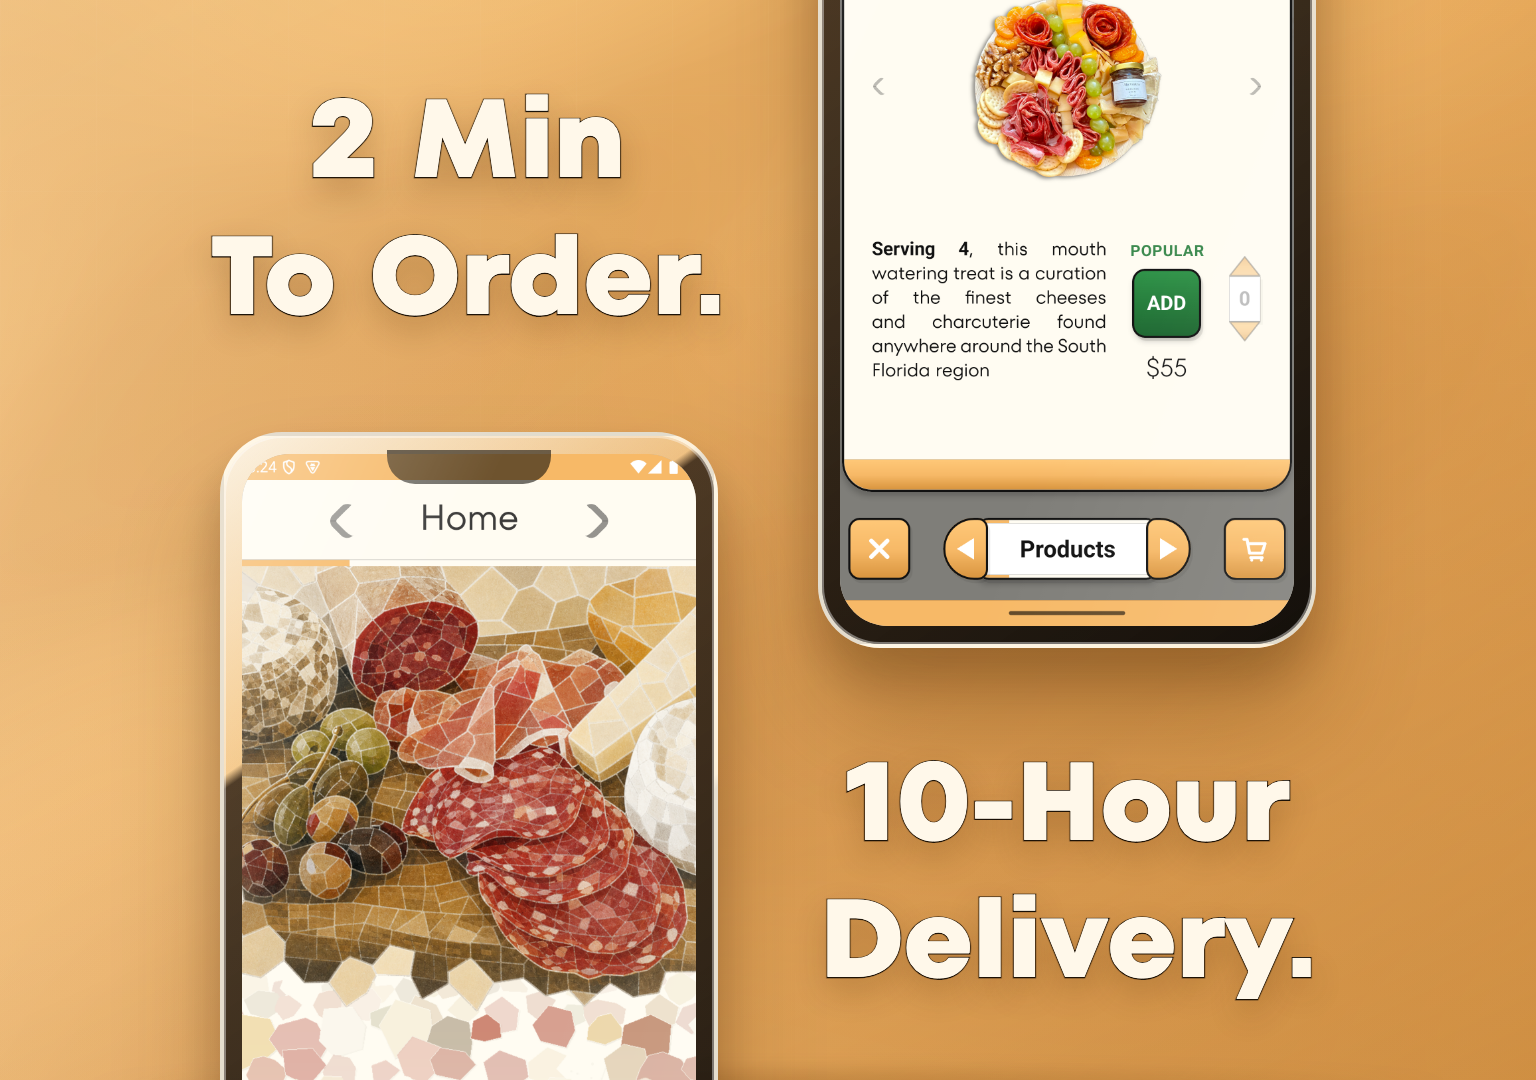
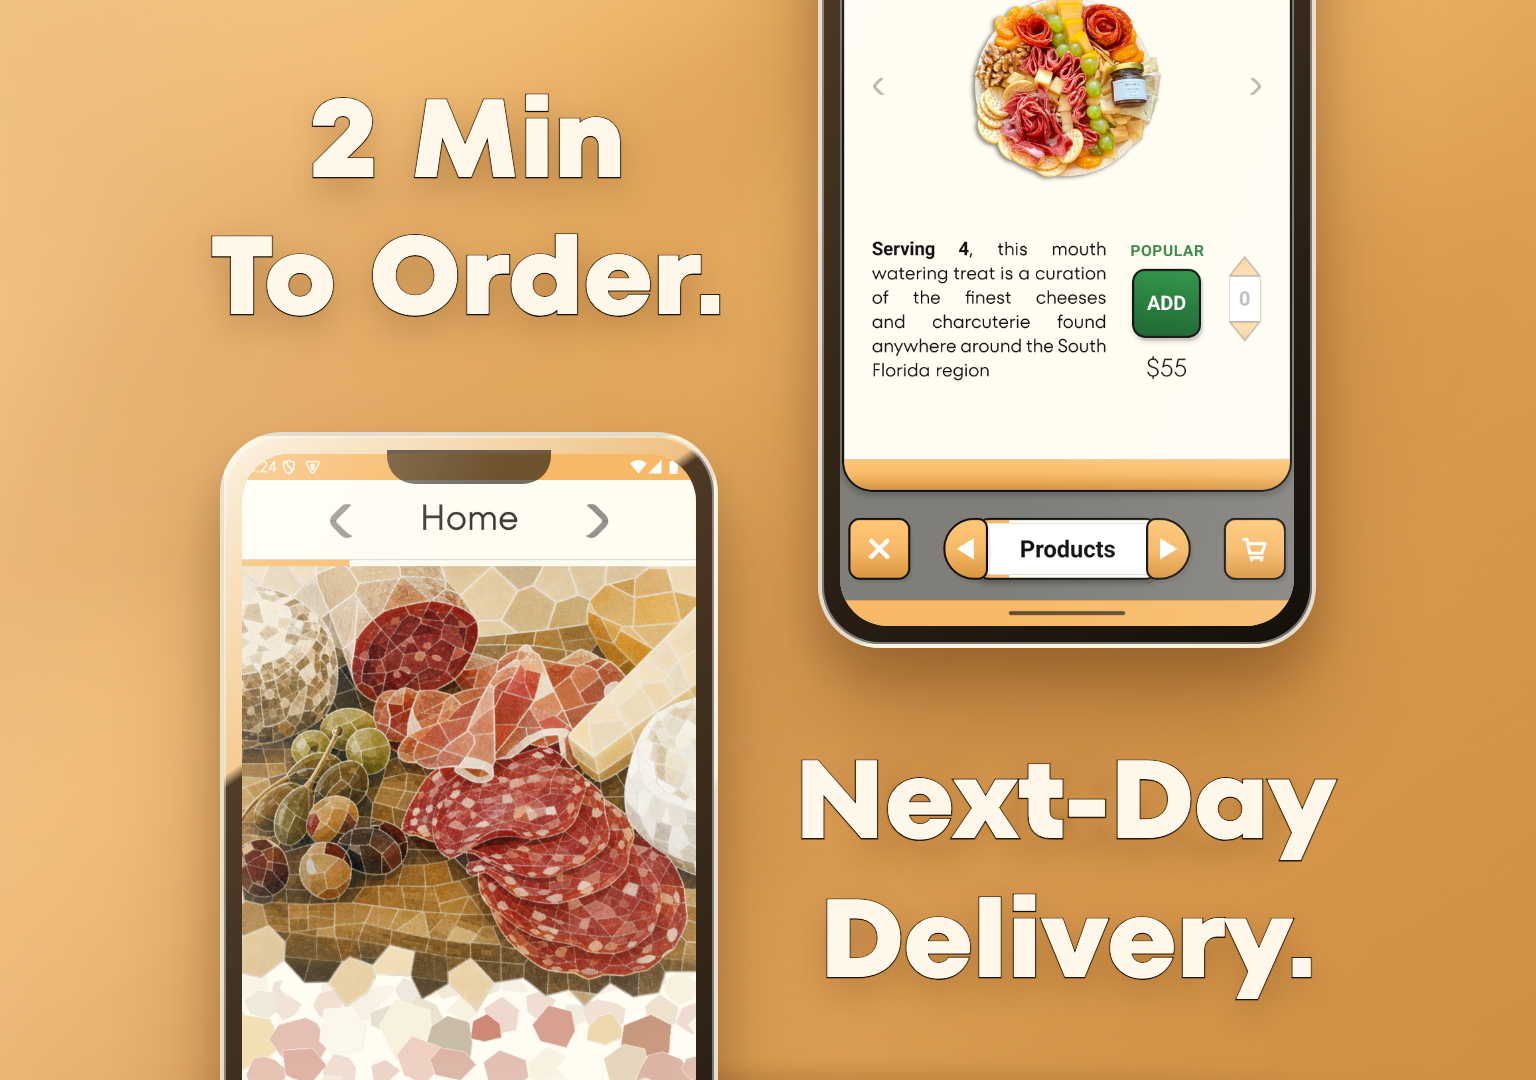
Updated Play Store marketing assets
- Rebuilt the feature graphic with refined typography, badge copy/spacing, screenshot lineup, and synced store export assets.
- Updated Play Store 2 regular/trim artwork from 10-Hour Delivery to Next-Day Delivery with matched TT Fors weight and dark stroke.
- Replaced Play Store 4 regular/trim third device screenshot with products_screen_large and refreshed project snapshots.

Changed region(s): [[0.5, 0.7028, 0.875, 0.7944]]

diff --git a/docs/play-store/screenshots/mockups/generate-feature-graphic.js b/docs/play-store/screenshots/mockups/generate-feature-graphic.js
@@ -7,19 +7,22 @@ const CANVAS = { width: 1920, height: 1080 };
 const REPO_ROOT = path.resolve(__dirname, '..', '..', '..', '..');
 const ROOT = path.resolve(__dirname, '..');
 const RAW_DIR = path.join(ROOT, 'raw', 'Android_Large');
+const FINAL_DIR = path.join(ROOT, 'final');
 const OUTPUT_DIR = path.join(__dirname, 'output');
+const QA_SCREENSHOT_DIR = path.join(REPO_ROOT, 'screenshots', 'alla_vostra', 'Android_Large');
+const STORE_FEATURE_GRAPHIC = path.join(REPO_ROOT, 'mob', 'assets', 'store', 'feature-graphic.png');
 const DREAM_AVENUE_FONT = path.join(REPO_ROOT, 'mob', 'assets', 'fonts', 'dream_avenue', 'dream_avenue.ttf');
 const TT_FORS_FONT = path.join(REPO_ROOT, 'mob', 'assets', 'fonts', 'tt_fors', 'tt_fors_trial_variable.ttf');
 
 const background = path.join(RAW_DIR, 'alla_vostra_orange_gradient_1920x1080.png');
 const screenshots = [
-  { file: 'products_overlay.png', label: 'Products', x: -652, y: 78, ry: 34, rz: -9.6, scale: 0.78 },
-  { file: 'shop_preview.png', label: 'Delivery', x: -492, y: 36, ry: 24, rz: -6, scale: 0.9 },
+  { dir: QA_SCREENSHOT_DIR, file: 'alla-vostra-large-20260729-215013.png', label: 'Products', x: -652, y: 78, ry: 34, rz: -9.6, scale: 0.78 },
+  { file: 'products_screen_large.png', label: 'Products', x: -492, y: 36, ry: 24, rz: -6, scale: 0.9 },
   { file: 'manual_capture_20260716_182514.png', label: 'Taste', x: -252, y: 8, ry: 12, rz: -2.6, scale: 1.02 },
   { file: 'startup_screen.png', label: 'Home', x: 0, y: -10, ry: 0, rz: 0, scale: 1.14 },
-  { file: 'confirmed_overlay.png', label: 'Confirmed', x: 252, y: 8, ry: -12, rz: 2.6, scale: 1.02 },
-  { file: 'payment_confirmation_overlay.png', label: 'Payment', x: 492, y: 36, ry: -24, rz: 6, scale: 0.9 },
-  { file: 'filled_cart_overlay.png', label: 'Cart', x: 652, y: 78, ry: -34, rz: 9.6, scale: 0.78 },
+  { dir: QA_SCREENSHOT_DIR, file: 'alla-vostra-large-20260729-214920.png', label: 'Home', x: 252, y: 8, ry: -12, rz: 2.6, scale: 1.02 },
+  { file: 'about_us_screen_large.png', label: 'About Us', x: 492, y: 36, ry: -24, rz: 6, scale: 0.9 },
+  { dir: QA_SCREENSHOT_DIR, file: 'alla-vostra-large-20260729-215225.png', label: 'Contact', x: 652, y: 78, ry: -34, rz: 9.6, scale: 0.78 },
 ];
 
 const variants = [
@@ -50,9 +53,9 @@ const variants = [
     badgeBaseWidth: '0px',
     badgeFontFamily: 'Inter, ui-sans-serif, system-ui, -apple-system, BlinkMacSystemFont, "Segoe UI", sans-serif',
     badges: [
-      { label: '12-hour shipping', scale: '1' },
+      { label: 'next-day shipping', scale: '1' },
       { label: '$10 delivery', scale: '1' },
-      { label: 'Dade / Broward', scale: '1' },
+      { label: 'dade / broward', scale: '1' },
     ],
     taglineLines: ['Passionately Home-Made.', 'Tastefully Sampled.', 'Unforgettable.'],
     taglineFontFamily: 'Inter, ui-sans-serif, system-ui, -apple-system, BlinkMacSystemFont, "Segoe UI", sans-serif',
@@ -90,6 +93,8 @@ const variants = [
     brandTextStroke: '3.9px rgba(8, 5, 2, 0.98)',
     brandLineHeight: '0.74',
     brandMargin: '0 0 0',
+    brandLeft: '15.62px',
+    brandScale: '1.375',
     brandNameTranslateX: '-26.4px',
     brandNameTranslateY: '5.4px',
     brandFirstLineFontSize: '275.33px',
@@ -98,23 +103,28 @@ const variants = [
     brandFirstLineTranslateX: '-1.6px',
     brandFirstLineTranslateY: '-2px',
     brandFirstLineScaleY: '1',
-    brandTop: '104.5px',
+    brandTop: '146.17px',
     badgeLeft: '737.6px',
-    badgeTop: '47.9px',
+    badgeTop: '17.9px',
     badgeGap: '18px',
     badgeSpreadBetweenBrandAndDeck: true,
+    badgeSpreadGapScale: 0.50625,
+    badgeSpreadPreviousGapScale: 0.75,
+    badgeCollapseTowardCenter: true,
     badgeBaseWidth: '291.7px',
-    badgeWidthSourceLabel: '12-hour shipping',
+    badgeWidthSourceLabel: 'next-day shipping',
     badgeWidthSourcePaddingMultiplier: 0.5,
+    badgeColor: '#ffffff',
     badgeFontFamily: '"TT Fors", Inter, ui-sans-serif, system-ui, sans-serif',
     badges: [
-      { label: 'Dade / Broward', scale: '1.1' },
+      { label: 'dade / broward', scale: '1.1' },
       { label: '$10 delivery', scale: '1.1' },
-      { label: '12-hour shipping', scale: '1.1' },
+      { label: 'next-day shipping', scale: '1.1' },
     ],
-    taglineLines: ['Smooth.', 'Tasty.', 'Posh.'],
+    taglineLines: ['Smooth.', 'Savory.', 'Posh.'],
     taglineLineScales: [1.21, 1, 0.722],
-    taglineLineFontSizes: ['170px', '165px', '150px'],
+    taglineLineFontSizes: ['170px', '170px', '170px'],
+    taglineLineLetterSpacings: ['0px', '-4px', '0px'],
     taglineLineAligns: ['flex-end', 'flex-end', 'flex-end'],
     taglineTargetWidth: '452.328125px',
     taglineEqualizeLineWidths: true,
@@ -124,9 +134,10 @@ const variants = [
     taglineTextStroke: '5.7px rgba(8, 5, 2, 0.98)',
     taglineLineHeight: '1.575',
     taglineLineGap: '52.7076px',
-    taglineLeft: '1455px',
+    taglineLeft: '1496.67px',
     taglineTop: '58.5692px',
     taglineTranslateX: '0px',
+    taglineScale: '0.9',
     sublineFontSize: '55px',
     sublineLineHeight: '0.94',
     sublineMargin: '0',
@@ -143,13 +154,15 @@ variants.push({
   id: 'dream-assets90',
   output: 'playstore1_feature-assets90_1920x1080.png',
   foregroundScale: '0.9',
-  stackOffsetY: '116.67px',
+  stackOffsetY: '172.23px',
+  finalFeatureExports: true,
 });
 
 variants.push({
   ...variants.find((variant) => variant.id === 'dream-assets90'),
   id: 'dream-assets90-foreground',
   output: 'playstore1_feature-assets90_foreground_1920x1080.png',
+  finalFeatureExports: false,
   transparentBackground: true,
 });
 
@@ -286,11 +299,11 @@ function html(backgroundSrc, renderedScreenshots, variant) {
     .brand {
       position: absolute;
       top: ${variant.brandTop};
-      left: 92px;
+      left: ${variant.brandLeft || '92px'};
       width: 540px;
       z-index: 20;
       text-shadow: 0 2px 18px rgba(255, 238, 206, 0.34);
-      transform: scale(1.25);
+      transform: scale(${variant.brandScale || '1.25'});
       transform-origin: top left;
     }
 
@@ -337,7 +350,8 @@ function html(backgroundSrc, renderedScreenshots, variant) {
       -webkit-text-stroke: ${variant.taglineTextStroke || '0 transparent'};
       paint-order: stroke fill;
       z-index: 20;
-      transform: translateX(${variant.taglineTranslateX});
+      transform: translateX(${variant.taglineTranslateX}) scale(${variant.taglineScale || '1'});
+      transform-origin: center center;
       ${variant.taglineEqualizeLineWidths ? `
       display: flex;
       flex-direction: column;
@@ -398,7 +412,7 @@ function html(backgroundSrc, renderedScreenshots, variant) {
       border-radius: 999px;
       background: rgba(255, 248, 234, 0.24);
       box-shadow: 0 18px 39px rgba(99, 51, 4, 0.12);
-      color: #3e250f;
+      color: ${variant.badgeColor || '#3e250f'};
       font-family: ${variant.badgeFontFamily};
       font-size: calc(26px * var(--badge-scale));
       font-weight: 800;
@@ -519,9 +533,9 @@ function html(backgroundSrc, renderedScreenshots, variant) {
       <section class="brand" aria-label="Alla Vostra">
         <h1 class="brand-name">${variant.brandNameLines.map((line) => `<span class="brand-name-line">${line}</span>`).join('')}</h1>
       </section>
-      <p class="tagline" data-target-width="${variant.taglineTargetWidth || ''}">${variant.taglineLines.map((line, index) => `<span class="tagline-line" data-line-scale="${variant.taglineLineScales?.[index] ?? 1}" data-line-font-size="${variant.taglineLineFontSizes?.[index] || ''}" style="align-self:${variant.taglineLineAligns?.[index] ?? 'auto'}">${line}</span>`).join('')}</p>
+      <p class="tagline" data-target-width="${variant.taglineTargetWidth || ''}">${variant.taglineLines.map((line, index) => `<span class="tagline-line" data-line-scale="${variant.taglineLineScales?.[index] ?? 1}" data-line-font-size="${variant.taglineLineFontSizes?.[index] || ''}" style="align-self:${variant.taglineLineAligns?.[index] ?? 'auto'};letter-spacing:${variant.taglineLineLetterSpacings?.[index] || '0px'}">${line}</span>`).join('')}</p>
       ${variant.sublineLines.length ? `<p class="subline">${variant.sublineLines.map((line) => `<span class="subline-line">${line}</span>`).join('')}</p>` : ''}
-      <div class="badge-stack" data-spread-between-brand-and-deck="${variant.badgeSpreadBetweenBrandAndDeck ? 'true' : 'false'}" aria-label="Delivery highlights">
+      <div class="badge-stack" data-collapse-toward-center="${variant.badgeCollapseTowardCenter ? 'true' : 'false'}" data-gap-scale="${variant.badgeSpreadGapScale ?? ''}" data-previous-gap-scale="${variant.badgeSpreadPreviousGapScale ?? ''}" data-spread-between-brand-and-deck="${variant.badgeSpreadBetweenBrandAndDeck ? 'true' : 'false'}" aria-label="Delivery highlights">
         ${variant.badges.map((badge) => `<span class="badge" data-label="${badge.label}" style="--badge-scale:${badge.scale};"><span class="badge-label">${badge.label}</span></span>`).join('')}
       </div>
       <section class="deck" aria-label="Alla Vostra app screens">
@@ -673,9 +687,19 @@ async function renderVariant(browser, backgroundSrc, renderedScreenshots, varian
           return;
         }
 
-        const reducedGap = originalGap * 0.75;
-        stack.style.top = `${topAnchor}px`;
-        stack.style.height = `${badgesHeight + reducedGap * (badges.length - 1)}px`;
+        const previousGapScale = Number.parseFloat(stack.dataset.previousGapScale || '0.75');
+        const gapScale = Number.parseFloat(stack.dataset.gapScale || '0.75');
+        const shouldCollapseTowardCenter = stack.dataset.collapseTowardCenter === 'true';
+        const previousGap = originalGap * (Number.isFinite(previousGapScale) ? previousGapScale : 0.75);
+        const reducedGap = originalGap * (Number.isFinite(gapScale) ? gapScale : 0.75);
+        const previousHeight = badgesHeight + previousGap * (badges.length - 1);
+        const reducedHeight = badgesHeight + reducedGap * (badges.length - 1);
+        const adjustedTop = shouldCollapseTowardCenter
+          ? topAnchor + ((previousHeight - reducedHeight) * stackScale) / 2
+          : topAnchor;
+
+        stack.style.top = `${adjustedTop}px`;
+        stack.style.height = `${reducedHeight}px`;
         stack.style.gap = `${reducedGap}px`;
         stack.style.justifyContent = 'flex-start';
       });
@@ -699,6 +723,41 @@ async function renderVariant(browser, backgroundSrc, renderedScreenshots, varian
 
   await fs.rm(tempPath, { force: true });
   console.log(`Generated ${path.relative(process.cwd(), outputPath)}`);
+
+  if (variant.finalFeatureExports) {
+    await exportFinalFeatureGraphic(outputPath);
+  }
+}
+
+async function exportFinalFeatureGraphic(sourcePath) {
+  await fs.mkdir(FINAL_DIR, { recursive: true });
+
+  const finalPngTargets = [
+    path.join(FINAL_DIR, 'playstore1.png'),
+    path.join(FINAL_DIR, 'playstore1_feature-assets90_deckdown60_extended-gradient_1024x500.png'),
+    path.join(FINAL_DIR, 'feature-graphic-upload-clean-1024x500.png'),
+    STORE_FEATURE_GRAPHIC,
+  ];
+  const finalJpgTargets = [
+    path.join(FINAL_DIR, 'feature-graphic-upload-1024x500.jpg'),
+    path.join(FINAL_DIR, 'feature-graphic-upload-clean-1024x500.jpg'),
+  ];
+  const resizedPng = await sharp(sourcePath)
+    .resize(1024, 500, { fit: 'cover', position: 'center' })
+    .png({ compressionLevel: 9, adaptiveFiltering: true })
+    .toBuffer();
+  const resizedJpg = await sharp(resizedPng)
+    .jpeg({ quality: 95, mozjpeg: true })
+    .toBuffer();
+
+  await Promise.all([
+    ...finalPngTargets.map((targetPath) => fs.writeFile(targetPath, resizedPng)),
+    ...finalJpgTargets.map((targetPath) => fs.writeFile(targetPath, resizedJpg)),
+  ]);
+
+  [...finalPngTargets, ...finalJpgTargets].forEach((targetPath) => {
+    console.log(`Generated ${path.relative(process.cwd(), targetPath)}`);
+  });
 }
 
 async function main() {
@@ -708,7 +767,7 @@ async function main() {
     await Promise.all(
       screenshots.map(async (item) => ({
         ...item,
-        src: await imageDataUrl(path.join(RAW_DIR, item.file)),
+        src: await imageDataUrl(path.join(item.dir || RAW_DIR, item.file)),
       }))
     )
   );
